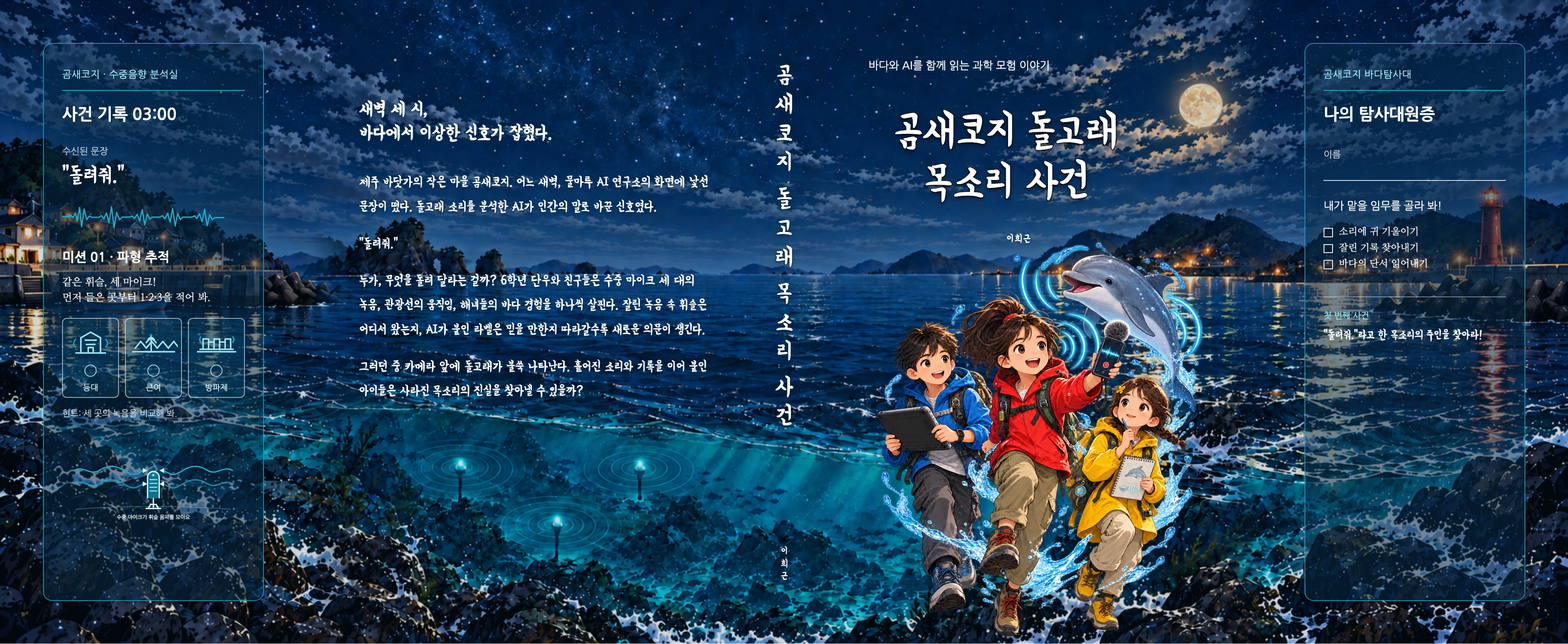
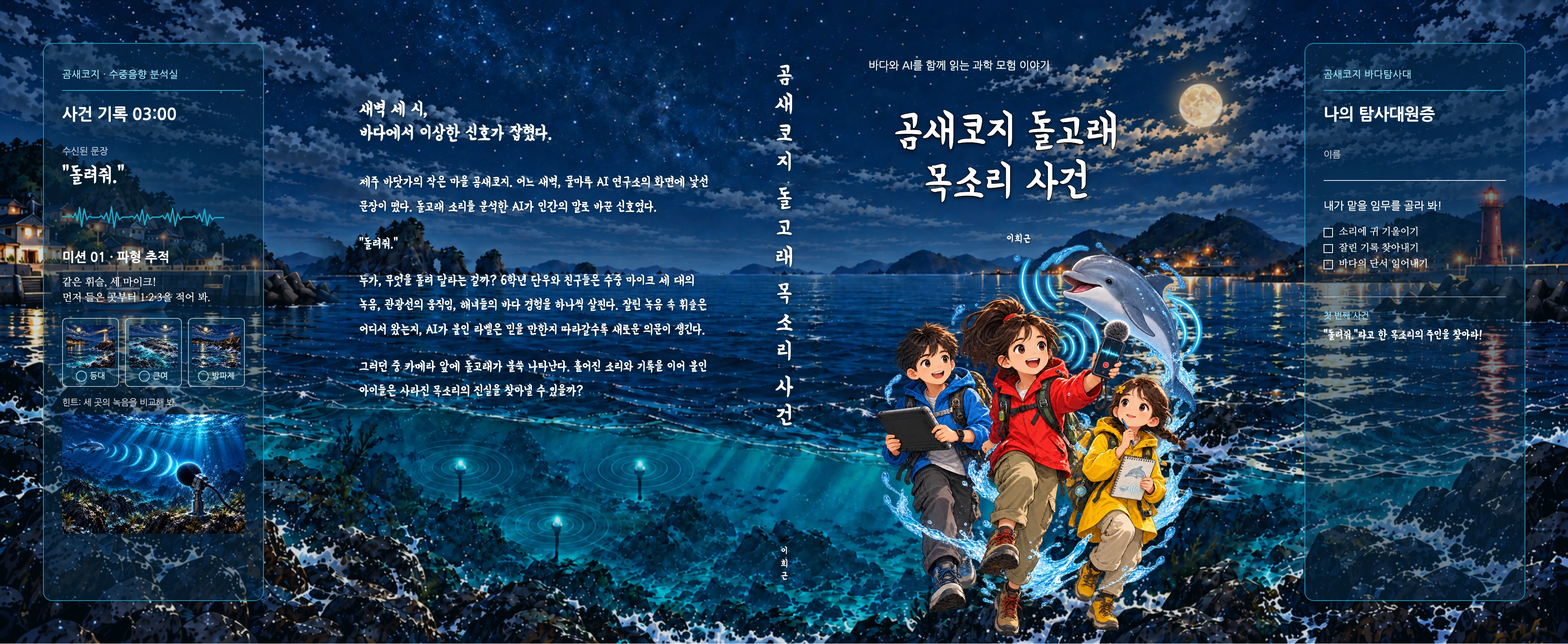
Paint flap cards in cover illustration style

Changed region(s): [[0.0311, 0.4937, 0.1554, 0.8331]]

diff --git a/book/cover/cover-spread.html b/book/cover/cover-spread.html
@@ -22,11 +22,15 @@ body{font-family:"Nanum Gothic","Noto Sans CJK KR","Apple SD Gothic Neo",sans-se
 .flap .challenge{font-family:"Nanum Myeongjo",serif;font-size:9.5pt;line-height:1.5;margin:0 0 4mm}
 .flap .sites{display:flex;gap:2mm}
 .flap .site{flex:1;min-width:0;text-align:center;padding:2mm 1mm 1.5mm;border:.3mm solid rgba(255,255,255,.62);border-radius:1.5mm;background:rgba(7,80,112,.28)}
-.flap .site svg{display:block;width:100%;height:12mm;margin:0 auto 1mm}
+.flap .site-art{display:block;width:100%;height:14mm;margin:0 auto 1mm;object-fit:cover;border-radius:.7mm}
+.flap .site-art.lighthouse{object-position:84% 30%}
+.flap .site-art.reef{object-position:center 56%}
+.flap .site-art.breakwater{object-position:70% 56%}
+.flap .site-meta{display:flex;align-items:center;justify-content:center;gap:1mm}
 .flap .site-name{font-size:7.5pt;line-height:1.2;white-space:nowrap;color:#d8f8fb}
-.flap .order{display:inline-flex;width:4mm;height:4mm;align-items:center;justify-content:center;border:.3mm solid #9be7f3;border-radius:50%;color:#9be7f3;font-size:6.5pt;line-height:1;margin-bottom:1mm}
+.flap .order{display:inline-flex;width:3.5mm;height:3.5mm;align-items:center;justify-content:center;border:.3mm solid #9be7f3;border-radius:50%;color:#9be7f3;font-size:6.5pt;line-height:1}
 .flap .hint{font-size:8pt;line-height:1.4;color:rgba(255,255,255,.78);margin-top:3mm}
-.flap .sonar-map{display:block;width:100%;height:39mm;margin-top:2mm}
+.flap .sonar-map{display:block;width:100%;height:39mm;margin-top:2mm;object-fit:cover;object-position:center;border-radius:1mm}
 .flap .name-label{font-size:8.5pt;color:rgba(255,255,255,.74);margin-top:8mm}
 .flap .name-line{height:7mm;border-bottom:.3mm solid rgba(255,255,255,.85);margin-bottom:6mm}
 .flap .role-title{font-family:"Nanum Gothic","Apple SD Gothic Neo",sans-serif;font-size:10pt;margin:0 0 4mm}
@@ -65,27 +69,12 @@ body{font-family:"Nanum Gothic","Noto Sans CJK KR","Apple SD Gothic Neo",sans-se
       <h3>미션 01 · 파형 추적</h3>
       <p class="challenge">같은 휘슬, 세 마이크!<br>먼저 들은 곳부터 1·2·3을 적어 봐.</p>
       <div class="sites">
-        <div class="site"><svg viewBox="0 0 80 48" aria-hidden="true"><path d="M16 40h48M24 40V15l16-9 16 9v25M31 19h18M33 26h14M36 40V31h8v9" fill="none" stroke="#9be7f3" stroke-width="2.5" stroke-linecap="round" stroke-linejoin="round"/><path d="M16 17q-7 7 0 14M64 17q7 7 0 14" fill="none" stroke="#16aeca" stroke-width="2"/></svg><span class="order"></span><div class="site-name">등대</div></div>
-        <div class="site"><svg viewBox="0 0 80 48" aria-hidden="true"><path d="M6 38h68M10 32l9-11 9 11 9-11 9 11 9-11 9 11 9-11 7 9M36 38V13M31 18q5-7 10 0M28 23q8-12 16 0" fill="none" stroke="#9be7f3" stroke-width="2.5" stroke-linecap="round" stroke-linejoin="round"/><circle cx="36" cy="11" r="2" fill="#16aeca"/></svg><span class="order"></span><div class="site-name">큰여</div></div>
-        <div class="site"><svg viewBox="0 0 80 48" aria-hidden="true"><path d="M8 38h64M12 34h56M18 34V17h9v17M27 34V22h9v12M36 34V17h9v17M45 34V22h9v12M54 34V17h9v17" fill="none" stroke="#9be7f3" stroke-width="2.5" stroke-linejoin="round"/><path d="M15 13q-5 5 0 10M66 13q5 5 0 10" fill="none" stroke="#16aeca" stroke-width="2"/></svg><span class="order"></span><div class="site-name">방파제</div></div>
+        <div class="site"><img class="site-art lighthouse" src="../images/flap-lighthouse-v2.jpg" alt="달빛 아래 등대와 바다"><div class="site-meta"><span class="order"></span><div class="site-name">등대</div></div></div>
+        <div class="site"><img class="site-art reef" src="../images/flap-reef-v2.jpg" alt="밤바다 물결 위로 드러난 바위 큰여"><div class="site-meta"><span class="order"></span><div class="site-name">큰여</div></div></div>
+        <div class="site"><img class="site-art breakwater" src="../images/flap-breakwater-v2.jpg" alt="파도가 부서지는 방파제와 테트라포드"><div class="site-meta"><span class="order"></span><div class="site-name">방파제</div></div></div>
       </div>
       <div class="hint">힌트: 세 곳의 녹음을 비교해 봐.</div>
-      <svg class="sonar-map" viewBox="0 0 720 300" aria-label="음파가 한 대의 수중 마이크로 모이는 모습">
-        <path d="M55 245Q360 222 665 245" fill="none" stroke="rgba(155,231,243,.32)" stroke-width="3"/>
-        <path d="M275 244l24-8 19 8 20-8 22 8 20-8 19 8 24-8" fill="none" stroke="rgba(155,231,243,.22)" stroke-width="3"/>
-        <g fill="none" stroke="#16aeca" stroke-width="5" stroke-linecap="round">
-          <path d="M48 92 C82 70 112 114 146 92 S210 70 244 92 S286 112 320 92"/>
-          <path d="M48 145 C82 123 112 167 146 145 S210 123 244 145 S286 165 320 145" opacity=".8"/>
-          <path d="M672 92 C638 70 608 114 574 92 S510 70 476 92 S434 112 400 92"/>
-          <path d="M672 145 C638 123 608 167 574 145 S510 123 476 145 S434 165 400 145" opacity=".8"/>
-        </g>
-        <path d="M318 82l18 10-18 10zM402 82l-18 10 18 10zM318 135l18 10-18 10zM402 135l-18 10 18 10z" fill="#d8f8fb"/>
-        <path d="M337 202V119a23 23 0 0 1 46 0v83" fill="rgba(11,134,165,.82)" stroke="#d8f8fb" stroke-width="5"/>
-        <path d="M346 128h28M346 143h28M346 158h28M346 173h28" stroke="#9be7f3" stroke-width="4" stroke-linecap="round"/>
-        <path d="M360 202v40m-29 0h58m-49-1 9-15h22l9 15" fill="none" stroke="#d8f8fb" stroke-width="5" stroke-linecap="round" stroke-linejoin="round"/>
-        <circle cx="360" cy="110" r="4" fill="#fff"/>
-        <text x="360" y="284" fill="#d8f8fb" font-size="22" text-anchor="middle" font-family="sans-serif">수중 마이크가 휘슬 음파를 모아요</text>
-      </svg>
+      <img class="sonar-map" src="../images/flap-hydrophone-v2.jpg" alt="돌고래가 낸 빛나는 음파가 한 대의 수중 마이크에 모이는 바닷속 장면">
     </div>
   </section>
   <div class="core">

diff --git a/docs/index.html b/docs/index.html
@@ -24,7 +24,7 @@
     <div class="top"><div class="brand">GOMSAEKOJI · BOOK PROJECT</div><span class="private">공개 저장소 · 출간 준비 대시보드</span></div>
     <header class="hero">
       <div class="intro"><div class="eyebrow">기획 · 원고 · 조판 · 출간</div><h1>곰새코지<br>돌고래 목소리 사건</h1><p>제주 바닷마을의 아이들이 돌고래 소리와 AI가 남긴 수수께끼를 좇는 초등 고학년 과학 모험 동화. 기획부터 출간 준비까지 현재 결정과 결과물을 모아 관리합니다.</p></div>
-      <div class="cover"><a href="https://github.com/heekeunlee/dolphin_voice_mystery/blob/main/book/cover/cover-spread-v15-preview.png"><img src="cover-preview.jpg" alt="음파를 수집하는 확대된 수중 마이크 그림을 담은 표지 미리보기"><span>최신 표지 펼침 · v15</span></a></div>
+      <div class="cover"><a href="https://github.com/heekeunlee/dolphin_voice_mystery/blob/main/book/cover/cover-spread-v16-preview.png"><img src="cover-preview.jpg" alt="표지 화풍에 맞춘 등대·큰여·방파제·수중 마이크 그림이 들어간 펼침 미리보기"><span>최신 표지 펼침 · v16</span></a></div>
     </header>
     <div class="metrics" aria-label="프로젝트 현황">
       <div class="metric"><b>9장</b><span>출판본 구성 · 집필 단위 17개 통합</span></div>
@@ -61,7 +61,7 @@
       <div class="files">
         <article class="card"><a href="https://github.com/heekeunlee/dolphin_voice_mystery/blob/main/book/_output/dolphin-said-proof.pdf">내지 교정 PDF</a><p>229쪽 · A5 · 표지 펼침 미포함</p><span class="badge">2026-10-09 재조판</span></article>
         <article class="card"><a href="https://github.com/heekeunlee/dolphin_voice_mystery/blob/main/book/_output/dolphin-said-proof.epub">EPUB 교정본</a><p>전자책 구조·목차 확인용</p><span class="badge">2026-10-09 재생성</span></article>
-        <article class="card"><a href="https://github.com/heekeunlee/dolphin_voice_mystery/blob/main/book/cover/cover-spread-v15-preview.png">표지 전체 펼침 미리보기</a><p>날개 하단에 수중 마이크 한 대를 확대하고, 양쪽에서 들어오는 휘슬 음파를 모으는 장면을 표현</p><span class="badge">v15 · 전체 시안</span></article>
+        <article class="card"><a href="https://github.com/heekeunlee/dolphin_voice_mystery/blob/main/book/cover/cover-spread-v16-preview.png">표지 전체 펼침 미리보기</a><p>등대·큰여·방파제와 수중 마이크 네 장면을 표지와 같은 밤바다 화풍의 실제 일러스트로 교체</p><span class="badge">v16 · 전체 시안</span></article>
         <article class="card"><a href="https://github.com/heekeunlee/dolphin_voice_mystery/blob/main/book/images/cover-wrap-panorama-v11.png">표지 배경 원본</a><p>타이포그래피를 얹기 전의 글자 없는 배경 그림</p></article>
       </div>
     </section>
@@ -76,7 +76,7 @@
     <section>
       <div class="section-head"><h2>최근 결정과 업데이트</h2><p>세부 근거는 각 날짜별 기획·검토 문서에 보관</p></div>
       <div class="panel timeline">
-        <div class="event"><div class="date">10월 10일</div><p>날개 탐사 미션과 앞표지 저자명 위치 수정<small>답안칸을 등대·큰여·방파제 카드로 명확히 하고, 아래 여백에는 확대된 수중 마이크 한 대가 휘슬 음파를 모으는 장면을 추가. 저자명은 위로 5mm 이동</small></p></div>
+        <div class="event"><div class="date">10월 10일</div><p>날개 그림을 표지 화풍의 실제 일러스트로 교체<small>등대·큰여·방파제 카드와 음파를 수집하는 수중 마이크 장면의 색감·질감을 통일</small></p></div>
         <div class="event"><div class="date">10월 9일</div><p>표지 파노라마 v11 및 글자 포함 펼침 미리보기 제작<small>접힘 경계의 해안선·수평선·구름·바닷속 연결을 조정</small></p></div>
         <div class="event"><div class="date">10월 9일</div><p>『시간 고양이』 실측 기준으로 본문 조판을 명시·재확인<small>명조 계열, 19행, 양끝맞춤, 22.7pt 행간, A5 여백</small></p></div>
         <div class="event"><div class="date">10월 9일</div><p>229쪽 내지 PDF와 EPUB 재조판<small>내지 교정쇄로, 표지 펼침은 별도</small></p></div>

diff --git a/book/cover/cover-spread.tex b/book/cover/cover-spread.tex
@@ -43,37 +43,29 @@
     같은 휘슬, 세 마이크!\par
     먼저 들은 곳부터 1·2·3을 적어 봐.};
   % 장소를 명시해 답안칸의 목적이 한눈에 보이도록 구성
-  \foreach \x/\cx/\site in {15/25.5/등대,40/50.5/큰여,65/75.5/방파제} {
+  \foreach \x in {15,40,65} {
     \draw[white!55,line width=.45pt,rounded corners=1mm,fill=deepsea,opacity=.32] (\x,52) rectangle +(21,20);
-    \draw[white!80,line width=.45pt] (\cx,67) circle (2.4mm);
-    \node[anchor=center,text=cyansea!25!white] at (\cx,67)
-      {\sffamily\fontsize{6.5pt}{7pt}\selectfont};
-    \node[anchor=north,text=white,align=center] at (\cx,62)
-      {\sffamily\fontsize{8pt}{10pt}\selectfont \site};
   }
+  \node[anchor=south west,inner sep=0] at (15,58)
+    {\includegraphics[width=21mm,height=13mm]{../images/flap-lighthouse-v2.jpg}};
+  \node[anchor=south west,inner sep=0] at (40,58)
+    {\includegraphics[width=21mm,height=13mm]{../images/flap-reef-v2.jpg}};
+  \node[anchor=south west,inner sep=0] at (65,58)
+    {\includegraphics[width=21mm,height=13mm]{../images/flap-breakwater-v2.jpg}};
+  \foreach \x in {20.5,45.5,70.5} {
+    \draw[white!80,line width=.45pt] (\x,55.5) circle (1.8mm);
+  }
+  \node[anchor=center,text=white] at (24.5,55.5)
+    {\sffamily\fontsize{7.5pt}{9pt}\selectfont 등대};
+  \node[anchor=center,text=white] at (49.5,55.5)
+    {\sffamily\fontsize{7.5pt}{9pt}\selectfont 큰여};
+  \node[anchor=center,text=white] at (77,55.5)
+    {\sffamily\fontsize{7.5pt}{9pt}\selectfont 방파제};
   \node[anchor=north west,text=white!75,align=left,text width=74mm] at (15,47)
     {\sffamily\fontsize{8pt}{11pt}\selectfont 힌트: 세 곳의 녹음을 비교해 봐.};
-  % 한 대의 수중 마이크를 확대해 양쪽에서 들어오는 음파를 수집하는 장면
-  \draw[white!25,line width=.45pt] (16,19) .. controls (34,17) and (67,17) .. (85,19);
-  \draw[cyansea,line width=.9pt,samples=90,domain=15:46,smooth,variable=\x]
-    plot (\x,{34+1.4*sin(48*(\x-15))});
-  \draw[cyansea!80,line width=.75pt,samples=90,domain=15:46,smooth,variable=\x]
-    plot (\x,{27+1.1*sin(48*(\x-15))});
-  \draw[cyansea,line width=.9pt,samples=90,domain=86:55,smooth,variable=\x]
-    plot (\x,{34+1.4*sin(48*(86-\x))});
-  \draw[cyansea!80,line width=.75pt,samples=90,domain=86:55,smooth,variable=\x]
-    plot (\x,{27+1.1*sin(48*(86-\x))});
-  \fill[white!90] (46.5,34) -- (44.5,35.2) -- (44.5,32.8) -- cycle;
-  \fill[white!90] (54.5,34) -- (56.5,35.2) -- (56.5,32.8) -- cycle;
-  \fill[white!85,rounded corners=1mm] (47.5,25) rectangle (53.5,42);
-  \fill[deepsea!80,rounded corners=.7mm] (48.1,25.8) rectangle (52.9,41.2);
-  \foreach \y in {29,32,35,38} {\draw[cyansea!70,line width=.45pt] (48.8,\y) -- (52.2,\y);}
-  \fill[white] (50.5,39.5) circle (0.65mm);
-  \draw[white!85,line width=.8pt] (50.5,25) -- (50.5,19.5);
-  \draw[white!85,line width=.8pt] (45.5,19.5) -- (55.5,19.5);
-  \draw[white!75,line width=.55pt] (47,19.5) -- (49,23) -- (52,23) -- (54,19.5);
-  \node[anchor=south,text=white!80] at (50.5,14.7)
-    {\sffamily\fontsize{7.5pt}{9pt}\selectfont 수중 마이크가 휘슬 음파를 모아요};
+  % 표지와 같은 화풍의 수중 마이크 원화: 휘슬 음파를 받는 한 장면
+  \node[anchor=south west,inner sep=0] at (15,15)
+    {\includegraphics[width=71mm,height=39mm]{../images/flap-hydrophone-v2.jpg}};
 
   % 뒷표지 문구
   \node[anchor=north west,text=white,align=left,text width=112mm] at (117,178)

diff --git a/PUBLISHING_STATUS.md b/PUBLISHING_STATUS.md
@@ -11,7 +11,7 @@
 - 구성: 17개 집필 단위를 9개 출판 장으로 통합. 원래 소제목과 삽화는 이야기 흐름 안에 보존.
 - 내지: A5, 나눔명조 본문, 나눔고딕 제목, 화면·메시지 상자는 별도 스타일.
 - 최신 조판 산출물: `book/_output/dolphin-said-proof.pdf` (229쪽)와 EPUB. 표지 펼침은 별도 제작물.
-- 표지: 배경 파노라마 v11 유지. 시안 v15에서 왼쪽 날개 아래에 수중 마이크 한 대를 확대하고, 양쪽에서 진행한 휘슬 음파가 센서로 모이는 장면을 표현. 표지 펼침은 미리보기이며 POD 최종 판형/책등 템플릿 적용 전.
+- 표지: 배경 파노라마 v11 유지. 시안 v16에서 왼쪽 날개의 등대·큰여·방파제 카드와 수중 마이크 장면을 선 아이콘에서 표지와 어울리는 밤바다 회화풍 원화로 교체. 표지 펼침은 미리보기이며 POD 최종 판형/책등 템플릿 적용 전.
 - GitHub: 공개 저장소 `https://github.com/heekeunlee/dolphin_voice_mystery`; 출판 관리 대시보드 `https://heekeunlee.github.io/dolphin_voice_mystery/` (Pages 빌드 확인 대기).
 - 기획상 출간 목표: 2027년 3월 하순. 계획 가격은 종이책 14,000원, 전자책 9,800원이며 확정 판매정보는 아님.
 - 유통 검토: 교보 POD, 국내 전자책, Google Play, Amazon KDP.
@@ -29,6 +29,7 @@
 | 2026-10-10 | 왼쪽 날개 답안칸에 장소(등대·큰여·방파제)를 표시하고 하단 여백에 축척이 아닌 상징 음향망을 추가. 앞표지 저자명을 위로 5mm 이동 |
 | 2026-10-10 | 수중 마이크가 점·표식처럼 보인다는 피드백을 반영해 하단 탐사도에 세 개의 같은 형태의 마이크 아이콘을 그리고 중앙의 네 번째 점처럼 보이던 표식을 삭제 |
 | 2026-10-10 | 날개 하단 그림을 단일 확대 수중 마이크 장면으로 교체. 양쪽에서 들어오는 휘슬 음파와 센서 방향 화살표를 넣어 수집 동작을 명확히 표현 |
+| 2026-10-10 | 날개에 있던 네 개의 선화 그림(등대·큰여·방파제·수중 마이크)을 밤바다 표지와 같은 질감·색감의 회화풍 일러스트로 교체 |
 | 2026-10-09 | 『시간 고양이』 미리보기 실측을 기준으로 본문 명조·19행·양끝맞춤·행간과 A5 여백을 명시하고 재조판 |
 
 ## 다음 단계

diff --git a/README.md b/README.md
@@ -11,7 +11,7 @@
 
 - 최신 내지 교정 PDF: `book/_output/dolphin-said-proof.pdf` (229쪽, 표지 펼침 별도)
 - EPUB: `book/_output/dolphin-said-proof.epub`
-- 최신 표지 펼침 미리보기: `book/cover/cover-spread-v15-preview.png`
+- 최신 표지 펼침 미리보기: `book/cover/cover-spread-v16-preview.png`
 - 표지 배경 원본: `book/images/cover-wrap-panorama-v11.png`
 
 ## 다시 조판하기
